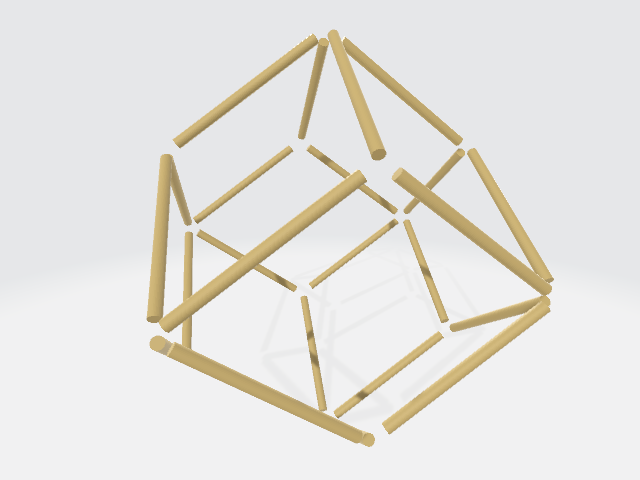
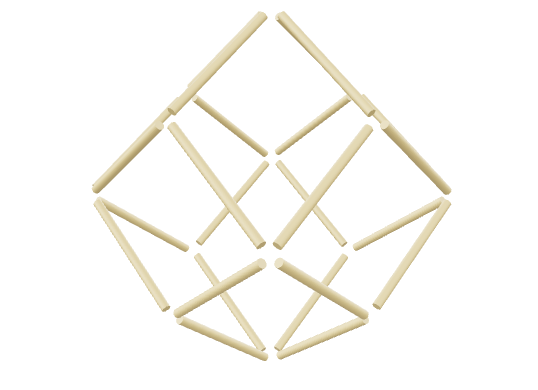
change model images

diff --git a/ds.html b/ds.html
@@ -159,19 +159,25 @@
         <div class="col-md-1"></div>
         <div class="col-md-5">
           <p class="fs-4 mt-3 hleft-line">ワイヤーフレームDNA origami</p>
-          The fundamental structure of the Vertex-Switcher is a rhombic
-          dodecahedron. The rhombic dodecahedron can be conceived as an
-          intermediate form transformable into two distinct entities: a
-          hexahedron with six vertices and an octahedron with eight vertices. We
-          fabricated this intermediary form through the utilization of wireframe
-          DNA origami, which is characterized by the hybridization of a
-          singular, lengthy ssDNA (scaffold) with numerous short ssDNAs
-          (staples). Notably, our structure was meticulously designed with the
-          assistance of a computer program [1].<br />
-
-          Vertex-Switcherの基本構造は菱形十二面体である。菱形十二面体は、6頂点体および8頂点体の二つへ変形可能な中間体として捉えることができる。我々はこの中間体を、ワイヤーフレームDNA
+          Vertex-Switcherの基本構造は菱形十二面体である。この構造には4つの辺から構成されるX字の頂点（Vertex
+          Group X）が6つ、3つの辺から構成されるY字の頂点(Vertex Group
+          Y)が8つ存在する。
+          頂点グループX,Yのいずれかが閉じることでもう一方の頂点グループが構造の内側に落ち込んで異なる頂点数を持つ構造が現れる。このような変形を行うための構造を追加することで、菱形十二面体は6頂点体および8頂点体の二つへ変形可能な中間体として捉えることができる。我々はこの中間体を、ワイヤーフレームDNA
           origamiを用いて作成した。ワイヤーフレームDNA
-          origamiは1本の長いssDNA(scaffold)と多数の短いssDNA(staple)のハイブリダイゼーションによって構造を作る。我々の構造はコンピュータプログラムを使って設計された。[1]
+          origamiは1本の長いssDNA(scaffold)と多数の短いssDNA(staple)のハイブリダイゼーションによって構造を作る。我々の構造はコンピュータプログラムを使って設計された。[1]<br />
+          "The fundamental structure of Vertex-Switcher is a rhombic
+          dodecahedron. This structure comprises six X-shaped vertices (Vertex
+          Group X), each composed of four edges, and eight Y-shaped vertices
+          (Vertex Group Y), each formed by three edges. By closing one of the
+          Vertex Groups X or Y, the other vertex group retracts inside the
+          structure, resulting in a configuration with a different number of
+          vertices. The addition of structures that enable such transformations
+          allows us to consider the rhombic dodecahedron as an intermediate form
+          that can transition between a hexahedral and an octahedral structure.
+          We constructed this intermediate form using wireframe DNA origami, a
+          method involving the hybridization of a single long ssDNA (scaffold)
+          with numerous short ssDNA (staple) strands. Our structure was
+          meticulously designed with the aid of a computer program [1].<br /><br />
         </div>
         <div class="col-md-5 text-break d-block">
           <model-viewer
@@ -262,19 +268,32 @@
         <div class="col-md-1"></div>
         <div class="col-md-5">
           <p class="fs-4 mt-3 hleft-line">鎖置換</p>
-          To effect the transformation from an intermediate state to an
-          alternative configuration, a mechanism for constraining specific
-          angles is necessary. We harnessed a mechanism rooted in strand
-          displacement [2]. Extending single-stranded DNA (fastening-DNA)
-          outward from each edge, and introducing single-stranded DNA
-          (close-DNA) that binds with fastening-DNA on opposing edges,
-          facilitates the constriction of specific angles, leading to the
-          transition to the alternative state. The addition of single-stranded
-          DNA (open-DNA) that binds with close-DNA releases the angles,
-          reverting the structure to its intermediate state.<br />
-
-          中間体から別状態へ変形させるために、特定の角を絞る機構が必要である。我々は鎖置換の仕組みを利用した。[2]
-          それぞれの辺から飛び出すようにssDNA(fastening-DNA)を伸ばす。向かい合う二辺のfastening-DNAと結合するssDNA(close-DNA)を加えることで特定の角が絞られ、別状態への変形が起きる。close-DNAと結合するssDNA(open-DNA)を加えると角が解放され、中間体に戻る。
+          中間体から別状態へ変形させるために、特定の角を閉じる機構が必要である。我々は鎖置換の仕組みを機構に利用した。[2]
+          機構はそれぞれの辺から伸ばされたssDNA(fastening-DNA),
+          向かい合う2辺のfastening-DNAと結合して角を閉じるためのssDNA（close-DNA）,
+          ssDNA同士のつなぎ合わせを解除するためのシグナルDNA（open-DNA）から構成されている。
+          Close-DNAを加えると、ope-DNAが隣り合う辺同士の開閉機構を橋渡しするように二重鎖を形成して、隣り合う辺同士が引き寄せられることで角が閉じる。このようにして頂点グループX,Yの一方を閉じることでもう一方の頂点グループに所属する頂点が落ち込み異なる頂点数の構造を形成する。
+          上記のように一部の頂点が閉じた構造にopen-DNAを加えると、open-DNAとclose-DNAが二重鎖を形成することで、鎖置換反応によって開閉機構ssDNAからclose-DNAが取り除かれ、角が開く。角が開いたDNAは中間体に戻り、再びclose-DNAを入れることで異なる頂点数の構造に変化することが出来る
+          。[2]<br />
+          To enable the transformation from an intermediate state to an
+          alternative state, a specific angle-closing mechanism is necessary. We
+          harnessed the chain replacement mechanism for this purpose [2]. The
+          mechanism consists of several components, including ssDNA
+          (fastening-DNA) extending from each edge, ssDNA (close-DNA) that binds
+          with fastening-DNA from opposing edges to close the angle, and signal
+          DNA (open-DNA) that unites ssDNA strands. When close-DNA is
+          introduced, open-DNA forms a double helix to bridge neighboring edges,
+          pulling them closer to close the angle. This allows closing one of the
+          vertex groups, X or Y, which results in a different vertex count
+          structure. As described, with some vertices closed in the structure as
+          open-DNA is added, open-DNA and close-DNA form a double helix,
+          removing close-DNA via the chain replacement reaction, resulting in
+          the angle opening. The opened-angle DNA returns to the intermediate
+          state and can undergo a structural change to a configuration with a
+          different vertex count by reintroducing close-DNA [2]." This
+          translation maintains the original meaning, uses academic and advanced
+          vocabulary, and conveys the complex process in a clear and concise
+          manner. It ensures that the logical flow of the text is preserved.<br />
         </div>
         <div class="col-md-5">
           <img src="./images/dsfig4.png" class="img-fluid w-100" />
